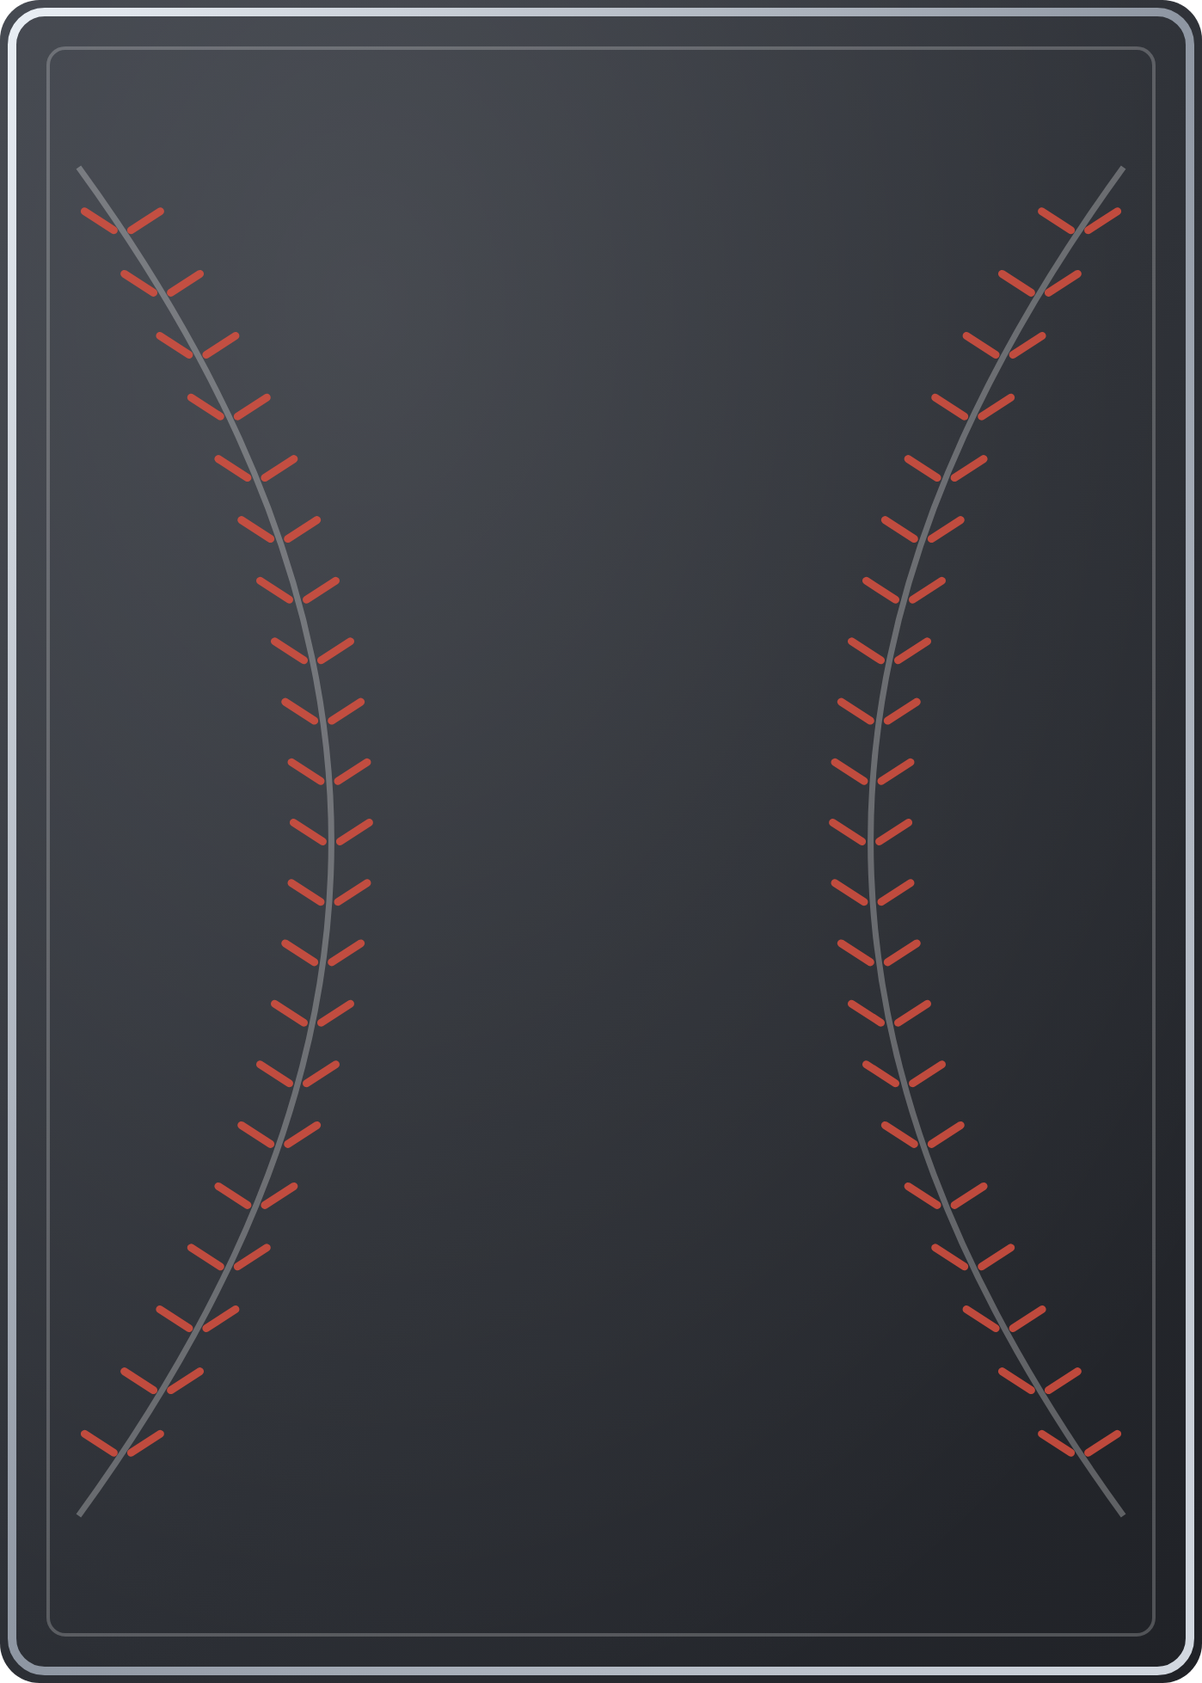
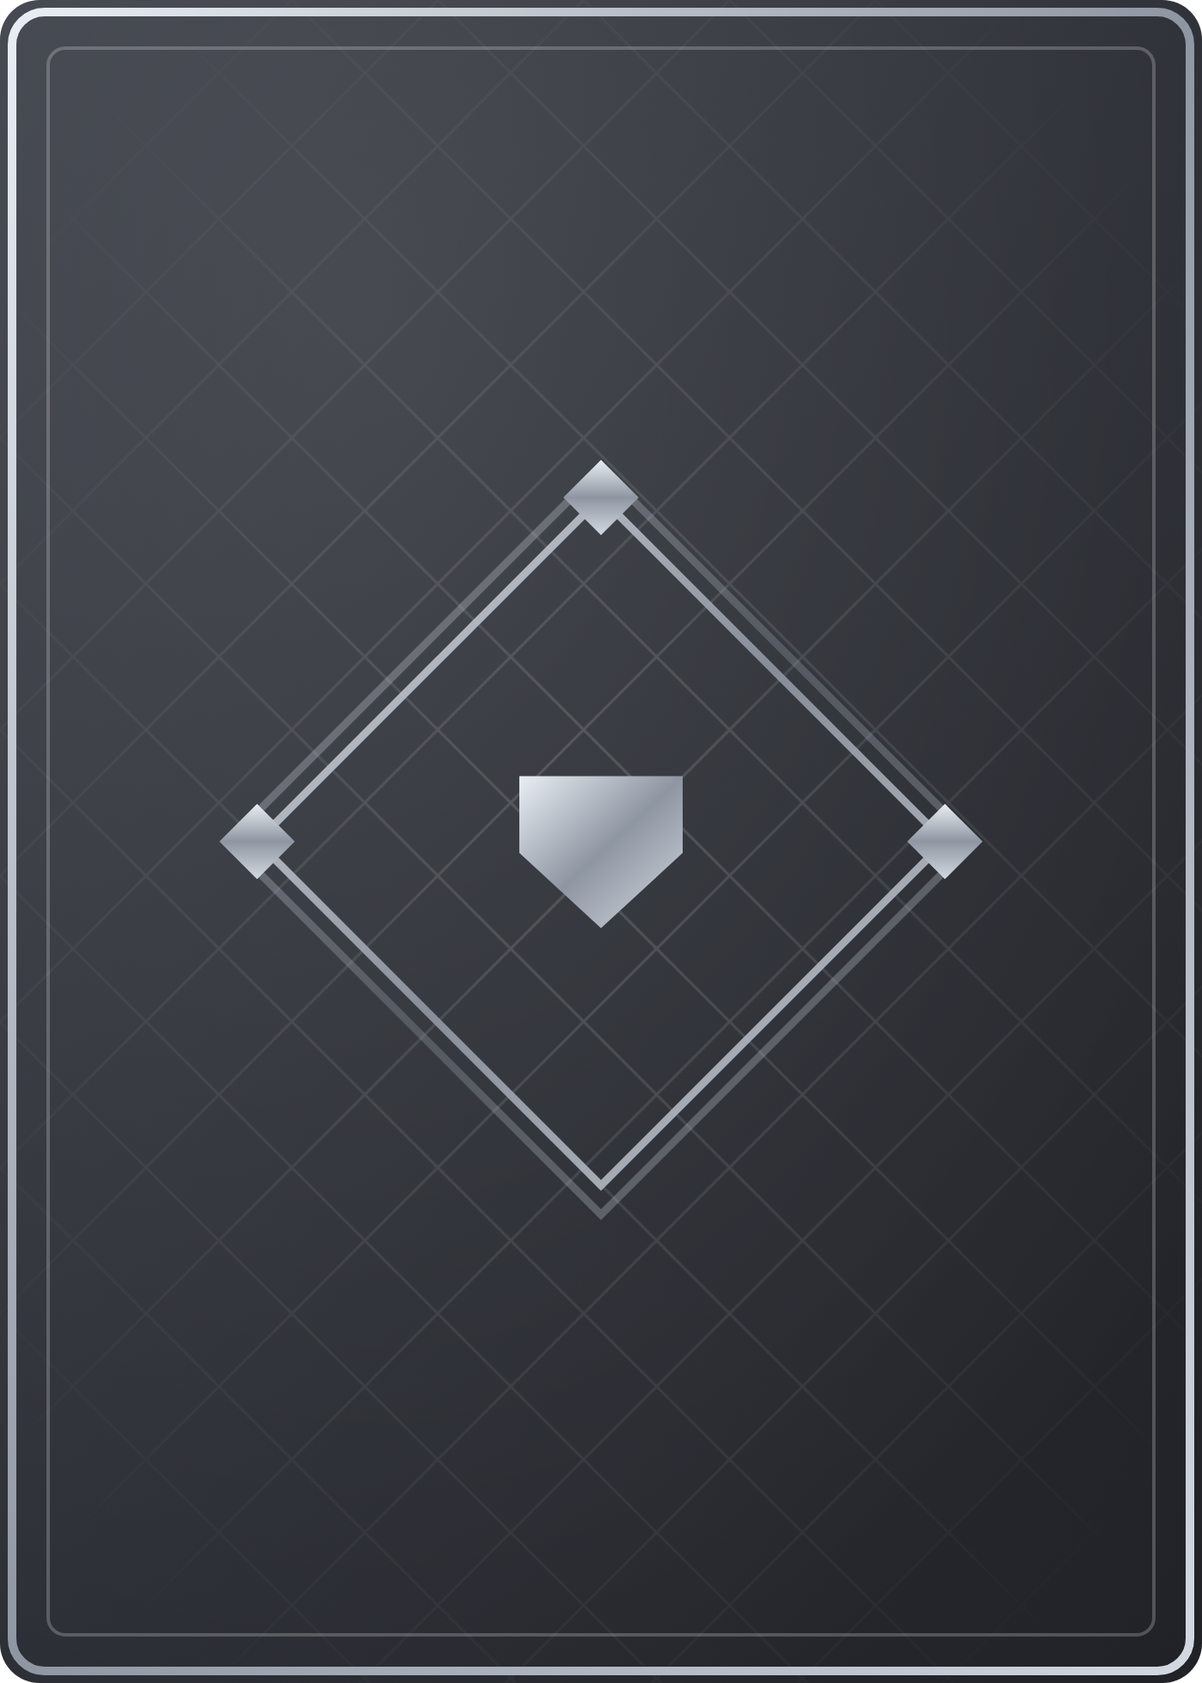
Feat : 뽑기 — 카드 뒷면 다이아몬드안 · 구장 조명 배경 · 두꺼운 밀기 화살표를 카드 한가운데에
- 카드 뒷면: 작성자 선택 3안(내야 다이아몬드). 가운데 문장을 키움 — 다이아몬드 반대각선 330 → 400 · 홈플레이트 150 → 190 · 베이스 52 → 62
- 배경: 작성자 선택 B안(구장 조명). 화면 위 양쪽 모서리 조명에서 결과 카드 자리(1330)로 엇갈리는 빛줄기 · 교차점의 옅은 빛 ·
  아래쪽 잔디 결. 1080×2340 을 화면 위에 붙인다 (Gacha/gacha_bg, StageLights)
- 밀기 화살표: 두꺼운 화살표(몸통 34 · 화살촉, 꼬리로 갈수록 옅어짐 + 옅은 그림자)를 각 뒷면 한가운데에.
  모든 뒷면이 한 박자로 왼쪽에서 나타나 오른쪽으로 흐르며 사라지고, 밀기 시작하거나 뒤집히면 그 카드 것만 숨는다.
  카드 아래에는 "카드를 누르거나 오른쪽으로 밀어서 뒤집기" 한 줄
- render_gacha_art.py: card_back · swipe_arrow(360×110) · gacha_bg 추가, 실밥 함수 정리

Changed region(s): [[0.0615, 0.0935, 0.9227, 0.9039], [0.4306, 0.4364, 0.5844, 0.5611], [0.7997, 0.7481, 0.9227, 0.9039]]

diff --git a/Design/ui_assets/render_gacha_art.py b/Design/ui_assets/render_gacha_art.py
@@ -1,15 +1,17 @@
 """
-뽑기 화면 아트 — 카드 뒷면 · 밀어서 뒤집기 화살표 · 공개 이펙트(빛 번짐 · 고리)
+뽑기 화면 아트 — 카드 뒷면 · 밀어서 뒤집기 화살표 · 공개 이펙트(빛 번짐 · 고리) · 구장 조명 배경
 
 사용법
     python Design/ui_assets/render_gacha_art.py
 
 출력
-    Assets/Resources/UI/Card/card_back.png      카드 뒷면 1398×1957 (어두운 회색 + 은색 테두리 + 빨간 실밥)
-    Assets/Resources/UI/Gacha/swipe_arrow.png   꼬리(왼쪽)로 갈수록 옅어지는 화살표 330×60 → 2배
+    Assets/Resources/UI/Card/card_back.png      카드 뒷면 1398×1957 (어두운 회색 + 은색 테두리 + 내야 다이아몬드 문장)
+    Assets/Resources/UI/Gacha/swipe_arrow.png   꼬리(왼쪽)로 갈수록 옅어지는 두꺼운 화살표 360×110 → 2배
+    Assets/Resources/UI/Gacha/gacha_bg.png      구장 조명 배경 1080×2340 (위 양쪽 모서리에서 카드 자리로 엇갈리는 빛줄기)
     Assets/Resources/UI/Fx/glow_soft.png        흰 원형 빛 번짐 256 (등급색으로 틴트)
     Assets/Resources/UI/Fx/ring.png             흰 고리 256 (공개 순간 퍼지는 충격파)
 """
+import math
 import subprocess
 import tempfile
 import time
@@ -23,51 +25,57 @@ WORK = Path(tempfile.gettempdir()) / "bbm_gacha_art"
 EDGE = r"C:\Program Files (x86)\Microsoft\Edge\Application\msedge.exe"
 
 CW, CH = 1398, 1957
-SEAM_RADIUS = 980        # 카드 전체를 공 한가운데로 보고 그린 실밥의 공 반지름
-SEAM_STITCHES = 21
+DIAMOND_HALF = 400       # 가운데 다이아몬드 반대각선 (시안 330 에서 키움)
+PLATE_WIDTH = 190
+BASE_SIZE = 62
+BG_W, BG_H = 1080, 2340
+STAGE_Y = 1330           # 빛줄기가 엇갈리는 높이 = 결과 카드 가운데 (1080×2278 기준)
 
 
 def f(v):
     return f"{v:.1f}"
 
 
-def cubic(p0, p1, p2, p3, t):
-    """3차 베지어 위의 점"""
-    u = 1 - t
-    return tuple(u ** 3 * a + 3 * u * u * t * b + 3 * u * t * t * c + t ** 3 * d for a, b, c, d in zip(p0, p1, p2, p3))
-
-
 def card_back():
-    """어두운 회색 바탕(배경 #1B1B1B 보다 한 단 밝다) + 왼쪽 위 은은한 빛 + 큰 실밥 두 줄(바늘땀만 빨강) + 은색 테두리 두 줄"""
-    cx, cy, r = CW / 2, CH / 2, SEAM_RADIUS
+    """어두운 회색 바탕(배경 #1B1B1B 보다 한 단 밝다) + 가운데서 옅어지는 내야 격자 + 큰 다이아몬드 두 줄 ·
+    은색 홈플레이트 · 1·2·3루 베이스 + 은색 테두리 두 줄"""
+    cx, cy, k = CW / 2, CH / 2, DIAMOND_HALF
     out = [f'''<defs>
 <linearGradient id="bg" x1="0" y1="0" x2="1" y2="1"><stop offset="0" stop-color="#3A3E46"/><stop offset="0.55" stop-color="#2A2D33"/><stop offset="1" stop-color="#202227"/></linearGradient>
 <linearGradient id="rim" x1="0" y1="0" x2="1" y2="1"><stop offset="0" stop-color="#E9EEF4"/><stop offset="0.5" stop-color="#8E96A2"/><stop offset="1" stop-color="#D3D9E1"/></linearGradient>
 <radialGradient id="hl" cx="0.3" cy="0.18" r="0.9"><stop offset="0" stop-color="#fff" stop-opacity="0.10"/><stop offset="1" stop-color="#fff" stop-opacity="0"/></radialGradient>
+<pattern id="lat" width="120" height="120" patternUnits="userSpaceOnUse" patternTransform="rotate(45)"><rect width="120" height="120" fill="none" stroke="#fff" stroke-width="3"/></pattern>
+<radialGradient id="fade" cx="0.5" cy="0.5" r="0.62"><stop offset="0" stop-color="#fff" stop-opacity="0.16"/><stop offset="1" stop-color="#fff" stop-opacity="0"/></radialGradient>
+<mask id="m"><rect width="{CW}" height="{CH}" fill="url(#fade)"/></mask>
 </defs>
 <rect width="{CW}" height="{CH}" rx="46" fill="url(#bg)"/>
-<rect width="{CW}" height="{CH}" rx="46" fill="url(#hl)"/>''']
-    for side in (-1, 1):
-        ends_x, bend_x = cx + side * r * 0.62, cx + side * r * 0.22
-        p0, p1, p2, p3 = (ends_x, cy - r * 0.8), (bend_x, cy - r * 0.25), (bend_x, cy + r * 0.25), (ends_x, cy + r * 0.8)
-        out.append(f'<path d="M{f(p0[0])},{f(p0[1])} C{f(p1[0])},{f(p1[1])} {f(p2[0])},{f(p2[1])} {f(p3[0])},{f(p3[1])}" '
-                   f'fill="none" stroke="#FFFFFF" stroke-opacity="0.28" stroke-width="7"/>')
-        for i in range(1, SEAM_STITCHES + 1):
-            px, py = cubic(p0, p1, p2, p3, i / (SEAM_STITCHES + 1))
-            for s in (-1, 1):
-                out.append(f'<line x1="{f(px + s * 10)}" y1="{f(py)}" x2="{f(px + s * 44)}" y2="{f(py - 22)}" '
-                           f'stroke="#D9503F" stroke-opacity="0.85" stroke-width="9" stroke-linecap="round"/>')
+<rect width="{CW}" height="{CH}" rx="46" fill="url(#hl)"/>
+<rect width="{CW}" height="{CH}" fill="url(#lat)" mask="url(#m)"/>''']
     out.append(f'<rect x="14" y="14" width="{CW - 28}" height="{CH - 28}" rx="38" fill="none" stroke="url(#rim)" stroke-width="10"/>'
                f'<rect x="56" y="56" width="{CW - 112}" height="{CH - 112}" rx="20" fill="none" stroke="#FFFFFF" stroke-opacity="0.22" stroke-width="4"/>')
+    for half, opacity in ((k, 0.9), (k + 34, 0.35)):
+        out.append(f'<polygon points="{f(cx)},{f(cy - half)} {f(cx + half)},{f(cy)} {f(cx)},{f(cy + half)} {f(cx - half)},{f(cy)}" '
+                   f'fill="none" stroke="url(#rim)" stroke-opacity="{opacity}" stroke-width="9"/>')
+    w = PLATE_WIDTH
+    out.append(f'<polygon points="{f(cx - w / 2)},{f(cy - w * 0.4)} {f(cx + w / 2)},{f(cy - w * 0.4)} {f(cx + w / 2)},{f(cy + w * 0.07)} '
+               f'{f(cx)},{f(cy + w * 0.53)} {f(cx - w / 2)},{f(cy + w * 0.07)}" fill="url(#rim)"/>')
+    half_base = BASE_SIZE / 2
+    for bx, by in ((cx + k, cy), (cx, cy - k), (cx - k, cy)):
+        out.append(f'<rect x="{f(bx - half_base)}" y="{f(by - half_base)}" width="{BASE_SIZE}" height="{BASE_SIZE}" '
+                   f'transform="rotate(45 {f(bx)} {f(by)})" fill="url(#rim)"/>')
     return "".join(out)
 
 
 def swipe_arrow():
-    """가는 몸통이 왼쪽 끝에서 투명 → 오른쪽 화살촉으로 갈수록 진해진다"""
+    """두꺼운 화살표. 몸통은 왼쪽 끝에서 투명 → 화살촉으로 갈수록 진해지고, 아래에 옅은 그림자를 깔아 밝은 뒷면에서도 보인다"""
+    body = 'M0,38 L238,38 L238,10 L352,55 L238,100 L238,72 L0,72 Z'
     return ('<defs><linearGradient id="a" x1="0" y1="0" x2="1" y2="0"><stop offset="0" stop-color="#fff" stop-opacity="0"/>'
-            '<stop offset="1" stop-color="#fff" stop-opacity="1"/></linearGradient></defs>'
-            '<rect x="0" y="26" width="300" height="8" rx="4" fill="url(#a)"/>'
-            '<path d="M286,8 L318,30 L286,52" fill="none" stroke="#fff" stroke-width="8" stroke-linecap="round" stroke-linejoin="round"/>')
+            '<stop offset="0.55" stop-color="#fff" stop-opacity="0.75"/><stop offset="1" stop-color="#fff" stop-opacity="1"/></linearGradient>'
+            '<linearGradient id="s" x1="0" y1="0" x2="1" y2="0"><stop offset="0" stop-color="#000" stop-opacity="0"/>'
+            '<stop offset="1" stop-color="#000" stop-opacity="0.45"/></linearGradient>'
+            '<filter id="b" x="-10%" y="-30%" width="120%" height="160%"><feGaussianBlur stdDeviation="4"/></filter></defs>'
+            f'<path d="{body}" fill="url(#s)" filter="url(#b)" transform="translate(3 5)"/>'
+            f'<path d="{body}" fill="url(#a)" stroke-linejoin="round"/>')
 
 
 def glow_soft():
@@ -80,6 +88,42 @@ def ring():
     return ('<defs><filter id="b"><feGaussianBlur stdDeviation="3"/></filter></defs>'
             '<circle cx="128" cy="128" r="112" fill="none" stroke="#fff" stroke-width="10" filter="url(#b)"/>'
             '<circle cx="128" cy="128" r="112" fill="none" stroke="#fff" stroke-width="4"/>')
+
+
+def beam(corner_x, direction, target_y, length, spread, opacity):
+    """모서리 조명(corner_x, 80)에서 화면 가운데(target_y)를 지나 퍼지는 쐐기 모양 빛줄기"""
+    ax, ay = corner_x, 80
+    vx, vy = BG_W / 2 - ax, target_y - ay
+    norm = math.hypot(vx, vy)
+    px, py = -vy / norm * direction, vx / norm * direction
+    ex, ey = ax + vx * length, ay + vy * length
+    return (f'<polygon points="{f(ax)},{f(ay)} {f(ex + px * spread)},{f(ey + py * spread)} {f(ex - px * spread)},{f(ey - py * spread)}" '
+            f'fill="url(#ray)" filter="url(#b)" opacity="{opacity}"/>')
+
+
+def gacha_bg():
+    """구장 조명 — 화면 위 양쪽 모서리 조명에서 카드 자리로 엇갈리는 빛줄기, 교차점의 옅은 빛, 아래쪽 잔디 결"""
+    out = [f'''<defs>
+<linearGradient id="g" x1="0" y1="0" x2="0" y2="1"><stop offset="0" stop-color="#151925"/><stop offset="0.72" stop-color="#121418"/><stop offset="1" stop-color="#132219"/></linearGradient>
+<linearGradient id="ray" x1="0" y1="0" x2="0" y2="1"><stop offset="0" stop-color="#fff" stop-opacity="0.17"/><stop offset="1" stop-color="#fff" stop-opacity="0"/></linearGradient>
+<radialGradient id="lamp" cx="0.5" cy="0.5" r="0.5"><stop offset="0" stop-color="#fff" stop-opacity="0.55"/><stop offset="1" stop-color="#fff" stop-opacity="0"/></radialGradient>
+<radialGradient id="cross" cx="0.5" cy="0.5" r="0.5"><stop offset="0" stop-color="#DDE6FF" stop-opacity="0.10"/><stop offset="1" stop-color="#DDE6FF" stop-opacity="0"/></radialGradient>
+<filter id="b" x="-20%" y="-20%" width="140%" height="140%"><feGaussianBlur stdDeviation="28"/></filter>
+</defs>
+<rect width="{BG_W}" height="{BG_H}" fill="url(#g)"/>''']
+    for i in range(14):
+        y = BG_H - 560 + i * 40
+        out.append(f'<rect y="{y}" width="{BG_W}" height="20" fill="#3E7A4F" fill-opacity="{0.012 + i * 0.003:.3f}"/>')
+    for x, d in ((0, 1), (BG_W, -1)):
+        for target_y, length, spread, opacity in ((STAGE_Y, 1.4, 260, 1.0), (STAGE_Y + 170, 1.25, 170, 0.6)):
+            out.append(beam(x, d, target_y, length, spread, opacity))
+        out.append(f'<circle cx="{x}" cy="80" r="170" fill="url(#lamp)"/>')
+        for row in range(2):
+            for col in range(3):
+                lx = x + d * (34 + col * 34)
+                out.append(f'<circle cx="{lx}" cy="{40 + row * 34}" r="10" fill="#fff" fill-opacity="0.5"/>')
+    out.append(f'<ellipse cx="{BG_W / 2}" cy="{STAGE_Y}" rx="520" ry="380" fill="url(#cross)"/>')
+    return "".join(out)
 
 
 def render(path, body, width, height, scale=1):
@@ -108,6 +152,7 @@ def render(path, body, width, height, scale=1):
 
 if __name__ == "__main__":
     render(UI / "Card" / "card_back.png", card_back(), CW, CH)
-    render(UI / "Gacha" / "swipe_arrow.png", swipe_arrow(), 330, 60, 2)
+    render(UI / "Gacha" / "swipe_arrow.png", swipe_arrow(), 360, 110, 2)
+    render(UI / "Gacha" / "gacha_bg.png", gacha_bg(), BG_W, BG_H)
     render(UI / "Fx" / "glow_soft.png", glow_soft(), 256, 256)
     render(UI / "Fx" / "ring.png", ring(), 256, 256)

diff --git a/Assets/Scripts/UI/Widgets/GachaRevealView.cs b/Assets/Scripts/UI/Widgets/GachaRevealView.cs
@@ -2,10 +2,9 @@
 using System.Collections.Generic;
 using TMPro;
 using UnityEngine;
-using UnityEngine.UI;
 
 /// <summary>
-/// 뽑기 결과 자리. 1장은 가운데 크게, 10장은 4 · 4 · 2 줄로 뒷면을 깔고 아래에 "밀어서 뒤집기" 안내를 띄운다.
+/// 뽑기 결과 자리. 1장은 가운데 크게, 10장은 4 · 4 · 2 줄로 뒷면을 깔고 카드 한가운데에 밀기 화살표를 띄운다.
 /// 카드는 처음 쓸 때 한 번 만들어 두고 돌려쓴다 (1장용 1 + 10장용 10)
 /// </summary>
 public sealed class GachaRevealView
@@ -16,22 +15,18 @@ public sealed class GachaRevealView
     private const float MultiWidth = 196f;
     private const float MultiColumnGap = 64f;
     private const float MultiRowGap = 44f;
-    private const float HintGap = 36f;
-    private const float HintHeight = 100f;
-    private const float ArrowWidth = 330f;
-    private const float ArrowHeight = 60f;
-    //화살표가 왼쪽에서 나타나 오른쪽으로 흐르며 사라지는 한 번의 길이와 이동 거리
+    private const float HintGap = 30f;
+    private const float HintHeight = 44f;
+    //화살표가 왼쪽에서 나타나 오른쪽으로 흐르며 사라지는 한 번의 길이와 이동 거리(카드 폭 비율)
     private const float HintCycleSeconds = 1.6f;
-    private const float HintTravel = 90f;
-    private const string ArrowSprite = "Gacha/swipe_arrow";
+    private const float HintTravel = 0.22f;
 
     private static readonly int[] MultiRowCounts = { 4, 4, 2 };
 
     private readonly RectTransform _group;
     private readonly RectTransform _hint;
-    private readonly RectTransform _arrow;
-    private readonly CanvasGroup _arrowGroup;
     private readonly List<GachaRevealCard> _multiCards = new List<GachaRevealCard>(MaxCards);
+    private readonly List<GachaRevealCard> _shownCards = new List<GachaRevealCard>(MaxCards);
 
     private GachaRevealCard _singleCard;
     private int _faceDownCount;
@@ -46,22 +41,9 @@ public sealed class GachaRevealView
 
         _hint = UiBuilder.CreateRect(_group, "SwipeHint");
 
-        Image arrow = UiBuilder.CreateImage(_hint, "Arrow", Color.white, ArrowSprite);
-
-        _arrow = arrow.rectTransform;
-        _arrow.anchorMin = new Vector2(0.5f, 1f);
-        _arrow.anchorMax = new Vector2(0.5f, 1f);
-        _arrow.pivot = new Vector2(0.5f, 1f);
-        _arrow.sizeDelta = new Vector2(ArrowWidth, ArrowHeight);
-        _arrowGroup = arrow.gameObject.AddComponent<CanvasGroup>();
-
         TextMeshProUGUI label = UiBuilder.CreateText(_hint, "Label", 30f, UiPalette.Text2, TextAlignmentOptions.Center);
-        label.rectTransform.anchorMin = new Vector2(0f, 1f);
-        label.rectTransform.anchorMax = new Vector2(1f, 1f);
-        label.rectTransform.pivot = new Vector2(0.5f, 1f);
-        label.rectTransform.anchoredPosition = new Vector2(0f, -ArrowHeight - 4f);
-        label.rectTransform.sizeDelta = new Vector2(0f, 40f);
-        label.text = "밀어서 뒤집기";
+        UiBuilder.Stretch(label.rectTransform, 0f, 0f, 0f, 0f);
+        label.text = "카드를 누르거나 오른쪽으로 밀어서 뒤집기";
 
         _group.gameObject.SetActive(false);
     }
@@ -79,6 +61,8 @@ public sealed class GachaRevealView
             SetHintVisible(false);
             return;
         }
+
+        _shownCards.Clear();
 
         if (cards.Count == 1)
             LayoutSingle(cards[0], onOpen);
@@ -111,6 +95,7 @@ public sealed class GachaRevealView
         UiBuilder.Place(_singleCard.Root, 0f, 0f, SingleWidth, height);
         _singleCard.SetVisible(true);
         _singleCard.SetCard(info, onOpen, OnCardRevealed);
+        _shownCards.Add(_singleCard);
     }
 
     //4 · 4 · 2 줄. 줄마다 가운데로 모은다
@@ -148,6 +133,7 @@ public sealed class GachaRevealView
                 UiBuilder.Place(card.Root, left + column * (MultiWidth + MultiColumnGap),
                     row * (height + MultiRowGap), MultiWidth, height);
                 card.SetCard(cards[index], onOpen, OnCardRevealed);
+                _shownCards.Add(card);
             }
         }
     }
@@ -175,7 +161,13 @@ public sealed class GachaRevealView
         _hintTween = null;
 
         if (visible)
+        {
             PlayHintCycle();
+            return;
+        }
+
+        foreach (GachaRevealCard card in _shownCards)
+            card.SetHint(0f, 0f);
     }
 
     //왼쪽에서 나타나 오른쪽으로 흐르며 사라진다. 뒷면이 남아 있고 화면에 보이는 동안만 되풀이한다
@@ -183,8 +175,11 @@ public sealed class GachaRevealView
     {
         _hintTween = UiAnimator.Play(HintCycleSeconds, t =>
         {
-            _arrow.anchoredPosition = new Vector2((t - 0.5f) * HintTravel, 0f);
-            _arrowGroup.alpha = t < 0.3f ? t / 0.3f : t > 0.7f ? (1f - t) / 0.3f : 1f;
+            float offset = (t - 0.5f) * HintTravel;
+            float alpha = t < 0.3f ? t / 0.3f : t > 0.7f ? (1f - t) / 0.3f : 1f;
+
+            foreach (GachaRevealCard card in _shownCards)
+                card.SetHint(offset, alpha);
         }, () =>
         {
             _hintTween = null;

diff --git a/Assets/Scripts/UI/Widgets/GachaRevealCard.cs b/Assets/Scripts/UI/Widgets/GachaRevealCard.cs
@@ -12,6 +12,10 @@ public class GachaRevealCard : UiWidgetBehaviour, IPointerClickHandler, IBeginDr
     private const string BackSprite = "Card/card_back";
     private const string GlowSprite = "Fx/glow_soft";
     private const string RingSprite = "Fx/ring";
+    private const string ArrowSprite = "Gacha/swipe_arrow";
+    //밀기 안내 화살표 폭(카드 폭 비율). 그림 비율 360×110 을 따른다
+    private const float ArrowWidthRatio = 0.55f;
+    private const float ArrowAspect = 110f / 360f;
     //카드 폭의 이 비율만큼 밀면 완전히 뒤집힌다 · 이만큼 넘게 밀고 놓으면 끝까지 넘긴다
     private const float FullDragRatio = 0.9f;
     private const float CommitProgress = 0.35f;
@@ -38,6 +42,7 @@ public class GachaRevealCard : UiWidgetBehaviour, IPointerClickHandler, IBeginDr
     private Image _glow;
     private Image _ring;
     private Image _flash;
+    private Image _hintArrow;
     private float _width;
     private float _progress;
     private float _dragStartX;
@@ -82,8 +87,21 @@ public class GachaRevealCard : UiWidgetBehaviour, IPointerClickHandler, IBeginDr
         _glow.gameObject.SetActive(false);
         _ring.gameObject.SetActive(false);
         _flash.gameObject.SetActive(false);
+        _hintArrow.color = UiPalette.WithAlpha(Color.white, 0f);
 
         SetProgress(0f);
+    }
+
+    /// <summary>
+    /// 밀기 안내 화살표의 가로 위치(카드 폭 비율)와 투명도. 결과 자리가 모든 뒷면에 같은 박자로 넘긴다.
+    /// 밀고 있거나 뒤집히는 중이면 숨긴다
+    /// </summary>
+    public void SetHint(float offset, float alpha)
+    {
+        bool idle = !IsFaceUp && !_dragging && !_flipping;
+
+        _hintArrow.rectTransform.anchoredPosition = new Vector2(offset * _width, 0f);
+        _hintArrow.color = UiPalette.WithAlpha(Color.white, idle ? alpha : 0f);
     }
 
     void IPointerClickHandler.OnPointerClick(PointerEventData eventData)
@@ -101,6 +119,7 @@ public class GachaRevealCard : UiWidgetBehaviour, IPointerClickHandler, IBeginDr
 
         _dragging = true;
         _dragStartX = ToLocalX(eventData);
+        _hintArrow.color = UiPalette.WithAlpha(Color.white, 0f);
     }
 
     void IDragHandler.OnDrag(PointerEventData eventData)
@@ -253,6 +272,11 @@ public class GachaRevealCard : UiWidgetBehaviour, IPointerClickHandler, IBeginDr
         Image backShine = UiBuilder.CreateImage(_back.transform, "Shine", UiPalette.WithAlpha(Color.white, BackShineStrength));
         UiBuilder.Stretch(backShine.rectTransform, 0f, 0f, 0f, 0f);
         backShine.material = CardMaterials.Shine;
+
+        float arrowWidth = width * ArrowWidthRatio;
+
+        _hintArrow = CreateCentered(_back.transform, "SwipeArrow", ArrowSprite, arrowWidth, arrowWidth * ArrowAspect);
+        _hintArrow.gameObject.SetActive(true);
 
         _flash = UiBuilder.CreateImage(_pivot, "Flash", UiPalette.WithAlpha(Color.white, 0f));
         UiBuilder.Stretch(_flash.rectTransform, 0f, 0f, 0f, 0f);

diff --git a/Assets/Scripts/UI/Screens/GachaScreen.cs b/Assets/Scripts/UI/Screens/GachaScreen.cs
@@ -10,6 +10,10 @@ using UnityEngine.UI;
 public class GachaScreen : UiScreenBehaviour
 {
     private const int TenRollCount = 10;
+    //구장 조명 배경. 화면 폭 1080 기준으로 위에 붙이고, 세로가 짧은 기기는 아래가 잘린다
+    private const string StageSprite = "Gacha/gacha_bg";
+    private const float StageWidth = 1080f;
+    private const float StageHeight = 2340f;
 
     private Action _onBack;
     private Action<int> _onCardSelected;
@@ -84,6 +88,16 @@ public class GachaScreen : UiScreenBehaviour
 
     protected override void Build()
     {
+        Image stage = UiBuilder.CreateImage(Root, "StageLights", Color.white, StageSprite);
+        RectTransform stageRect = stage.rectTransform;
+
+        stageRect.anchorMin = new Vector2(0.5f, 1f);
+        stageRect.anchorMax = new Vector2(0.5f, 1f);
+        stageRect.pivot = new Vector2(0.5f, 1f);
+        stageRect.anchoredPosition = Vector2.zero;
+        stageRect.sizeDelta = new Vector2(StageWidth, StageHeight);
+        stage.gameObject.SetActive(stage.sprite != null);
+
         TextMeshProUGUI title = UiBuilder.CreateText(Root, "Title", 48f, UiPalette.Text1);
         UiBuilder.Place(title.rectTransform, 32f, 32f, 500f, 60f);
         title.text = "뽑기";
